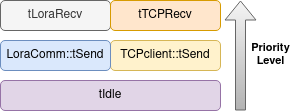
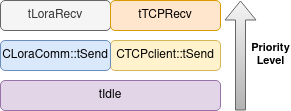
SW Local System

Changed region(s): [[0.4021, 0.4324, 0.7423, 0.5405], [0.0, 0.4324, 0.3711, 0.5405]]

diff --git a/report/texts/sw_gateway.tex b/report/texts/sw_gateway.tex
@@ -1,31 +1,58 @@
-%**********************************************************
-\subsection{Task Overview}
-One can define and describe briefly how the gateway is implemented, making use of threads and processes.
-
-\begin{itemize}
-	\item \textbf{tLoraRecv: } receives all messages from local systems, using LoRa communication;
-	\item \textbf{tTCPRecv: } receives all messages from the remote server, using TCP-IP communication;	
-	\item \textbf{LoraComm::tSend: } sends all received messages from the remote server, in textit{tTCPRecv}, to the local systems, using LoRa communication; private method of the LoraComm class;
-	\item \textbf{TCPclient::tSend: } sends all received messages from local systems, in \textit{tLoraRecv}, to the remote server, using TCP-IP communication; private method of the TCPclient class.
-\end{itemize}
-
-One can define the relationship between the tasks as follows, in figure \ref{fig:GwOverview}. To communicate the local system received messages and the remote server sender service its used a vector of messages, named \textit{msgs\_to\_rs}. In the communication between the remote server received messages and the local system sender service its also used a vector of messages, named \textit{msgs\_to\_ls}.
+One can define the relationship between the tasks as follows, in figure \ref{fig:GwOverview}. The rule of the gateway is to receive LoRa messages and send the content in TCP-IP messages, or vice versa.
 
 \begin{figure}[H]
 	\centering
-%	\includegraphics[width=1\textwidth]{09sw_specification/GwOverview}
+	\includegraphics[width=1\textwidth]{09sw_specification/Gateway/overview}
 	\caption{Gateway Overview.}
 	\label{fig:GwOverview}
 \end{figure}
 
 %**********************************************************
+\subsection{Class Diagrams}
+In figure \ref{fig:GwclassDiag} is represented the class diagram of gateway, \textit{CGateway}, which is the main class of the system, responsible for initializing the objects of each class listed below.
+
+\begin{itemize}
+	\item \textbf{CLoraComm:} manages the LoRa communications with the local systems, interfacing with the LoRa module; this class was already detailed previously;
+	
+	\item \textbf{CTCPclient:} manages the TCP-IP communication with the remote server;
+\end{itemize}
+
+\begin{figure}[H]
+	\centering	\includegraphics[width=.68\textwidth]{09sw_specification/Gateway/cgateway/class}
+	\caption{CGateway Class Diagram.}
+	\label{fig:GwclassDiag}
+\end{figure}
+
+\myparagraph{Class CTCPclient}
+
+In figure \ref{fig:TCPclient} is shown the CTCPclient class. This class defines a TCPclient capable of establishing a connection to a given remote server and to exchange messages to it, via TCP-IP. Like in the CLoraComm class, this class inherits from the class CCommunication.
+
+\begin{figure}[H]
+	\centering
+	\includegraphics[width=.4\textwidth]{09sw_specification/Gateway/ctcpclient/class}
+	\caption{Class Diagram: TCPclient.}
+	\label{fig:TCPclientClass}
+\end{figure}
+
+%**********************************************************
 \clearpage
+\subsection{Task Overview}
+One can define and describe briefly how the gateway is implemented, making use of threads and processes.
+
+\begin{itemize}
+	\item \textbf{tLoraRecv:} receives all messages from local systems, using LoRa communication;
+	\item \textbf{tTCPRecv:} receives all messages from the remote server, using TCP-IP communication;	
+	\item \textbf{CLoraComm::tSend:} sends all received messages from the remote server, in \textit{tTCPRecv}, to the local systems, using LoRa communication; 
+	\item \textbf{CTCPclient::tSend:} sends all received messages from local systems, in \textit{tLoraRecv}, to the remote server, using TCP-IP communication;
+\end{itemize}
+
+%**********************************************************
 \subsection{Task Priority}
 The priority assignment diagram for the gateway is represented in figure \ref{fig:gwt_priority}.
 
 \begin{figure}[H]
 	\centering
-%	\includegraphics[width=0.5\textwidth]{09sw_specification/GwPriority}
+	\includegraphics[width=0.5\textwidth]{09sw_specification/Gateway/priority}
 	\caption{Gateway Priority Assignment Schematic.}
 	\label{fig:gwt_priority}
 \end{figure}
@@ -34,165 +61,97 @@ The priority assignment diagram for the gateway is represented in figure \ref{fi
 \subsection{Task Synchronization}
 
 \myparagraph{Condition Variables}
+
 The condition variables used in this system are listed below.
 
 \begin{itemize}
-	\item \textbf{LoraComm::condSend:} used to notify \textit{tLoraSend} that a new message is ready to be sent; private member of class LoraComm;
-	\item \textbf{TCPclient::condSend:} used to notify \textit{tTCPSend} that a new message is ready to be sent; private member of class TCPclient.
+	\item \textbf{CLoraComm::condSend:} used to notify \textit{tLoraSend} that a new message is ready to be sent; private member of class LoraComm;
+	\item \textbf{CTCPclient::condSend:} used to notify \textit{tTCPSend} that a new message is ready to be sent; private member of class TCPclient.
 \end{itemize}
 
 \myparagraph{Mutexes}
-The mutexes used in this system are listed bellow, which are all private members of LoraComm and TCPclient classes.
+
+The mutexes used in this system are listed bellow, which are all private members of CLoraComm and CTCPclient classes.
 
 \begin{itemize}
-	\item \textbf{LoraComm::mutComm:} used to protect the LoRa communications (send and receive);
-	\item \textbf{LoraComm::mutSend:}	used to protect the handling of the vector \textit{msgs\_to\_ls};
+	\item \textbf{CLoraComm::mutComms} and \textbf{CLoraComm::mutTxMsgs:} already detailed in the local system section;
 	
-	\item \textbf{TCPclient::mutComm:} used to protect the TCP/IP communications (send and receive);
-	\item \textbf{TCPclient::mutSend:} used to protect the handling of the vector \textit{msgs\_to\_rs}.
+	\item \textbf{CTCPclient::mutComms:} used to protect the TCP-IP communications (send and receive);
+	\item \textbf{CTCPclient::mutTxMsgs:} indirectly used by \textit{CTCPclient}; used to protect the insertion and removal of messages into \textit{TxMsgs};
 \end{itemize}
 
-%\subsection{Task Communication}
-%In order to communicate all messages between the LoRa related tasks and the TCP related tasks are used two vectors of strings, \textit{msgs\_to\_rs} and \textit{msgs\_to\_ls}. This belongs to the container library \textit{std::vector} from C++ libraries, which implements a dynamic contiguous array. The storage of the vector is handled automatically being expanded and contracted as needed. This provides functions like \textit{push\_back()}, \textit{insert()} or \textit{pop\_back()} which allows to insert or remove new elements as needed.
+%%**********************************************************
+\subsection{Start-up Process}
+In figure \ref{fig:bootGateway} is shown the start-up process for the gateway. When booting up, the gateway creates a CGateway object, initializing all needed members, and after that, runs until all the threads termination.
+
+\begin{figure}[H]
+	\centering		\includegraphics[width=.3\textwidth]{09sw_specification/Gateway/mainprocess}
+	\caption{Start-Up Process: Gateway.}
+	\label{fig:bootGateway}
+\end{figure}
 
 %**********************************************************
-\subsection{Class Diagrams}
-In figure \ref{fig:GwclassDiag} is represented the class diagram of gateway. The class \textit{CGateway} is the main class of the system that initializes the objects of each class listed below.
+\clearpage
+\subsection{Flowcharts}
+%Each local system has a predefined ID, which may be presented in a physical label for an operator to use this information. When a local system is being installed, it will use it's predefined ID in all communications with the remote server until the operator registers the local system that's being installed, in the remote server. By doing this, the remote server assigns a new ID to the local system, which is then sent to the local system, for this to be used in further communications.
 
-\begin{itemize}
-	\item \textbf{CLoraComm:} manages the LoRa communications, interfacing with the LoRa module;
-	
-	\item \textbf{CTCPclient:} manages the TCP-IP communication with the remote server;
-\end{itemize}
+%*****************************
+\myparagraph{CGateway Methods}
 
-\begin{figure}[H]
-	\centering
-%	\includegraphics[width=.8\textwidth]{09sw_specification/GwClassDiagram}
-	\caption{Gateway Class Diagram.}
-	\label{fig:GwclassDiag}
-\end{figure}
-
-\myparagraph{Class CTCPclient}
-
-In figure \ref{fig:TCPclient} is shown the TCPclient class. This class defines a TCPclient capable of establishing a connection to a given remote server and to exchange messages to it, via TCP-IP. Like in the LoraComm class, which is very similar to this, its used a vector of strings, \textit{tx\_msgs} to store messages, providing a waiting list of messages to be sent.
+In figure \ref{fig:gwtCGatewayconstructor} is shown the start-up process for the gateway. When booting up, the gateway creates a CTCPclient and a CLoraComm objects. After this the threads are created and both objects begin running their threads for receiving and sending messages.
 
 \begin{figure}[H]
 	\centering
-%	\includegraphics[width=.5\textwidth]{09sw_specification/TCPclientClass}
-	\caption{Class Diagram: TCPclient.}
-	\label{fig:TCPclientClass}
+	\includegraphics[width=.3\textwidth]{09sw_specification/Gateway/cgateway/constructor}
+	\caption{Flowchart: CGateway constructor.}
+	\label{fig:gwtCGatewayconstructor}
 \end{figure}
+
+This task, presented in figure \ref{fig:gwtLoraRecv}, is responsible for receiving all the packets sent by the local systems, through LoRa communication. When a message is received it is pushed into the TCP client list of queued messages, waiting to be sent to the remote server.
+
+\begin{figure}[H]
+	\centering
+	%	\includegraphics[width=.5\textwidth]{09sw_specification/Gateway/cgateway/tlorarecv}
+	\caption{Flowchart: CGateway tLoraRecv method.}
+	\label{fig:gwtLoraRecv}
+\end{figure}
+
+This task, presented in figure \ref{fig:gwtTCPRecv}, is responsible for receiving the messages sent by the remote system to the local systems. Unlike the \textit{tsend} tasks, this thread never enters the sleep state because one can receive a message at any moment. If it is received a message, then one can push the message to the messages queue in CLoraComm, signaling its thread to send the message, via LoRa communication.
+
+\begin{figure}[H]
+	\centering
+	%	\includegraphics[width=.5\textwidth]{09sw_specification/Gateway/cgateway/ttcprecv}
+	\caption{Flowchart: CGateway tTCPRecv method.}
+	\label{fig:gwtTCPRecv}
+\end{figure}
+
+%*****************************
+\clearpage
+\myparagraph{CTCPclient Methods}
 
 A TCPclient can be created through the use of the constructor, shown in figure \ref{fig:TCPclient}. This connects to a given server, defined by the string \textit{host}, and to the port \textit{port}, via TCP-IP and initializes all the private members.
 
 \begin{figure}[H]
 	\centering
-%	\includegraphics[width=.8\textwidth]{09sw_specification/TCPclient}
-	\caption{Class Diagram: TCPclient construtor.}
+	%	\includegraphics[width=.8\textwidth]{09sw_specification/Gateway/ctcpclient/constructor}
+	\caption{Class Diagram: CTCPclient constructor.}
 	\label{fig:TCPclient}
 \end{figure}
 
-A message can be put in the waiting list to be sent through the use of \textit{TCPclient.push(msg)}, as shown in figure \ref{fig:TCPclientPush}. As in the LoraComm class, this function is responsible for adding a message to the \textit{tx\_msgs} vector and signal the condition variable \textit{condSend} for the task \textit{tSend} to send the message.
+As in CLoraComm, this class must implement \textit{recvFunc} and \textit{sendFunc}, as they are pure virtual methods from CCommunication. 
+
+In this class, one will use existent functions \textit{TCPReceive} and \textit{TCPSend} to implement TCP-IP communication, as shown in figures \ref{fig:TCPclientrecvfunc} and \ref{fig:TCPclientsendfunc}. This functions make use of socket associated with the TCP-IP established connection.
 
 \begin{figure}[H]
 	\centering
-%	\includegraphics[width=.3\textwidth]{09sw_specification/TCPclientPush}
-	\caption{Class Diagram: TCPclient Push method.}
-	\label{fig:TCPclientPush}
+	%	\includegraphics[width=.6\textwidth]{09sw_specification/Gateway/ctcpclient/recvfunc}
+	\caption{Flowchart: CTCPclient recvFunc method.}
+	\label{fig:TCPclientrecvfunc}
 \end{figure}
-
-In order to send a message, this class has a built-in thread, \textit{tSend} that is created through the use of \textit{TCPclient.run()}, as shown in figure \ref{fig:TCPclientRun}.
 
 \begin{figure}[H]
 	\centering
-%	\includegraphics[width=.3\textwidth]{09sw_specification/TCPclientRun}
-	\caption{Class Diagram: TCPclient Run method.}
-	\label{fig:TCPclientRun}
+	%	\includegraphics[width=.6\textwidth]{09sw_specification/Gateway/ctcpclient/sendfunc}
+	\caption{Flowchart: CTCPclient sendFunc method.}
+	\label{fig:TCPclientsendfunc}
 \end{figure}
-
-To send a message to the server, the thread \textit{tSend}, works similarly to \textit{LoraComm::tSend}, apart from the function used to send the message to the destination, that in this case is the \textit{send()} function, for TCP-IP. The flowchart for this method is presented in figure \ref{fig:TCPclientSend}.
-
-\begin{figure}[H]
-	\centering
-%	\includegraphics[width=.8\textwidth]{09sw_specification/TCPclientSend}
-	\caption{Class Diagram: TCPclient tSend thread.}
-	\label{fig:TCPclientSend}
-\end{figure}
-
-To receive a message from the server, in a non blocking mode, there is the method \textit{recv()}, presented in figure \ref{fig:TCPclientRecv}.
-
-\begin{figure}[H]
-	\centering
-%	\includegraphics[width=.3\textwidth]{09sw_specification/TCPclientRecv}
-	\caption{Class Diagram: TCPclient Recv method.}
-	\label{fig:TCPclientRecv}
-\end{figure}
-
-%**********************************************************
-\subsection{Flowcharts}
-Each local system has a predefined ID, which may be presented in a physical label for an operator to use this information. When a local system is being installed, it will use it's predefined ID in all communications with the remote server until the operator registers the local system that's being installed, in the remote server. By doing this, the remote server assigns a new ID to the local system, which is then sent to the local system, for this to be used in further communications.
-
-\myparagraph{tLoraRecv}
-
-This task, presented in figure \ref{fig:gwtLoraRecv}, is responsible for receiving all the packets sent by the local systems, through LoRa communication, using \textit{LoraComm.recv()} function, that was already detailed.
-
-When a message is received it is pushed into the TCP client list of queue messages, waiting to be sent to the remote server.
-
-\begin{figure}[H]
-	\centering
-%	\includegraphics[width=.5\textwidth]{09sw_specification/gwtLoraRecv}
-	\caption{Flowchart: Gateway tLoraRecv.}
-	\label{fig:gwtLoraRecv}
-\end{figure}
-
-%\myparagraph{tLoraSend}
-%
-%This task, presented in figure \ref{fig:gwtLoraSend}, is responsible for sending all the packets sent by the remote system to the local systems. In addiction to the mutex \textit{mutLoraComm}, this task makes use of another mutex \textit{mutLoraSend}, which comes along with the condition variable \textit{condLoraSend}, in order to protect the insertion and removal of messages from the vector \textit{msgs\_to\_ls}.
-%
-%When there are no messages to send to the local systems, i.e, the messages vector \textit{msgs\_to\_ls} is empty, then the task enters a sleep state, waiting for \textit{condLoraSend} to be notified. When this happens, the mutex that protects LoRa communication is locked and a message is popped from the queue of messages to being sent to the local systems. If the vector \textit{msgs\_to\_ls} is not empty after sending a message, this task continues to do so until there are no more to send, before entering into sleep state again.
-
-%\begin{figure}[H]
-%	\centering
-%		\includegraphics[width=.8\textwidth]{09sw_specification/gwtLoraSend}
-%	\caption{Flowchart: Gateway tLoraSend.}
-%	\label{fig:gwtLoraSend}
-%\end{figure}
-
-%\clearpage
-%\myparagraph{tTCPSend}
-%
-%This task, presented in figure \ref{fig:gwtTCPSend}, is responsible for sending all the messages sent by the local systems to the remote system, being received by in the task \textit{tLoraRecv}. It uses two mutexes: \textit{mutTCPSend} associated with the condition variable \textit{condTCPSend}, that synchronizes the insertion and removal of the messages from the vector \textit{msgs\_to\_rs}; and \textit{mutTCPComm}, to protect the communications send and receive.
-%
-%When there are no messages to send to the remote system, i.e, the messages vector \textit{msgs\_to\_rs} is empty, the task enters a sleep state, waiting for \textit{condTCPSend} to be notified by the task receiving messages from the local systems. When messages are received, the vector \textit{msgs\_to\_rs} is not empty, and one can lock the mutex \textit{mutTCPSend} in order to pop a message from the vector. After that, one can send the message via TCP/IP communication protocol, protecting the communication with the mutex \textit{mutTCPComm}.
-%
-%\begin{figure}[H]
-%	\centering
-%	\includegraphics[width=.52\textwidth]{09sw_specification/gwtTCPSend}
-%	\caption{Flowchart: Gateway tTCPSend.}
-%	\label{fig:gwtTCPSend}
-%\end{figure}
-
-\myparagraph{tTCPRecv}
-This task, presented in figure \ref{fig:gwtTCPRecv}, is responsible for receiving the messages sent by the remote system to the local systems. Unlike the \textit{tsend} tasks, this thread never enters the sleep state because we can receive a message at any moment. If it is received a message, then one can push the message to the messages vector in LoraComm, signaling its thread to send the message, via LoRa communication
-
-\begin{figure}[H]
-	\centering
-%	\includegraphics[width=.5\textwidth]{09sw_specification/GwtTCPRecv}
-	\caption{Flowchart: Gateway tTCPRecv.}
-	\label{fig:gwtTCPRecv}
-\end{figure}
-
-%%**********************************************************
-\clearpage
-\subsection{Start-up Process}
-In figure \ref{fig:bootGateway} is shown the start-up process for the gateway. When booting up, the gateway creates the TCPclient and the LoraComm objects, initializing the peripherals needed for the gateway to communicate with the local systems and the remote server. After this the threads are created and both objects begin running their threads for receiving messages.
-
-\begin{figure}[H]
-	\centering
-%	\includegraphics[width=.3\textwidth]{09sw_specification/bootGw}
-	\caption{Start-Up Process: Gateway.}
-	\label{fig:bootGateway}
-\end{figure}
-
-%%**********************************************************
-%\subsection{Shutdown Process}

diff --git a/report/texts/sw_local_system.tex b/report/texts/sw_local_system.tex
@@ -10,7 +10,7 @@ One can define and describe briefly how the local system is implemented, making 
 \end{figure}
 
 %**********************************************************
-\subsection{Class Diagram}
+\subsection{Class Diagrams}
 In figure \ref{fig:clocalsystem} is represented the class diagram of the local system's main process. The class \textit{CLocalSystem} is the main class of the main process, which initializes the objects of each class listed below.
 
 \begin{itemize}
